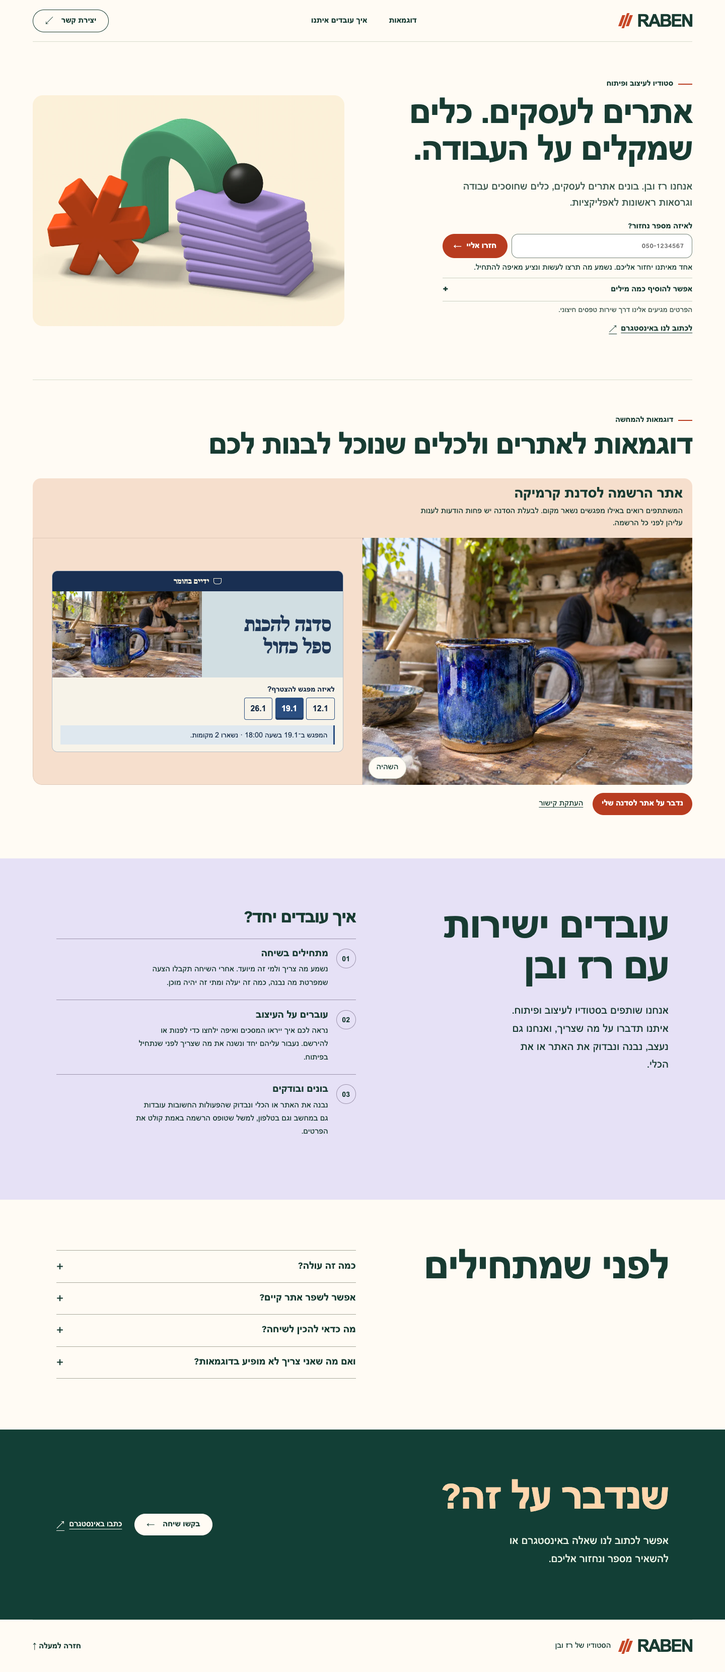
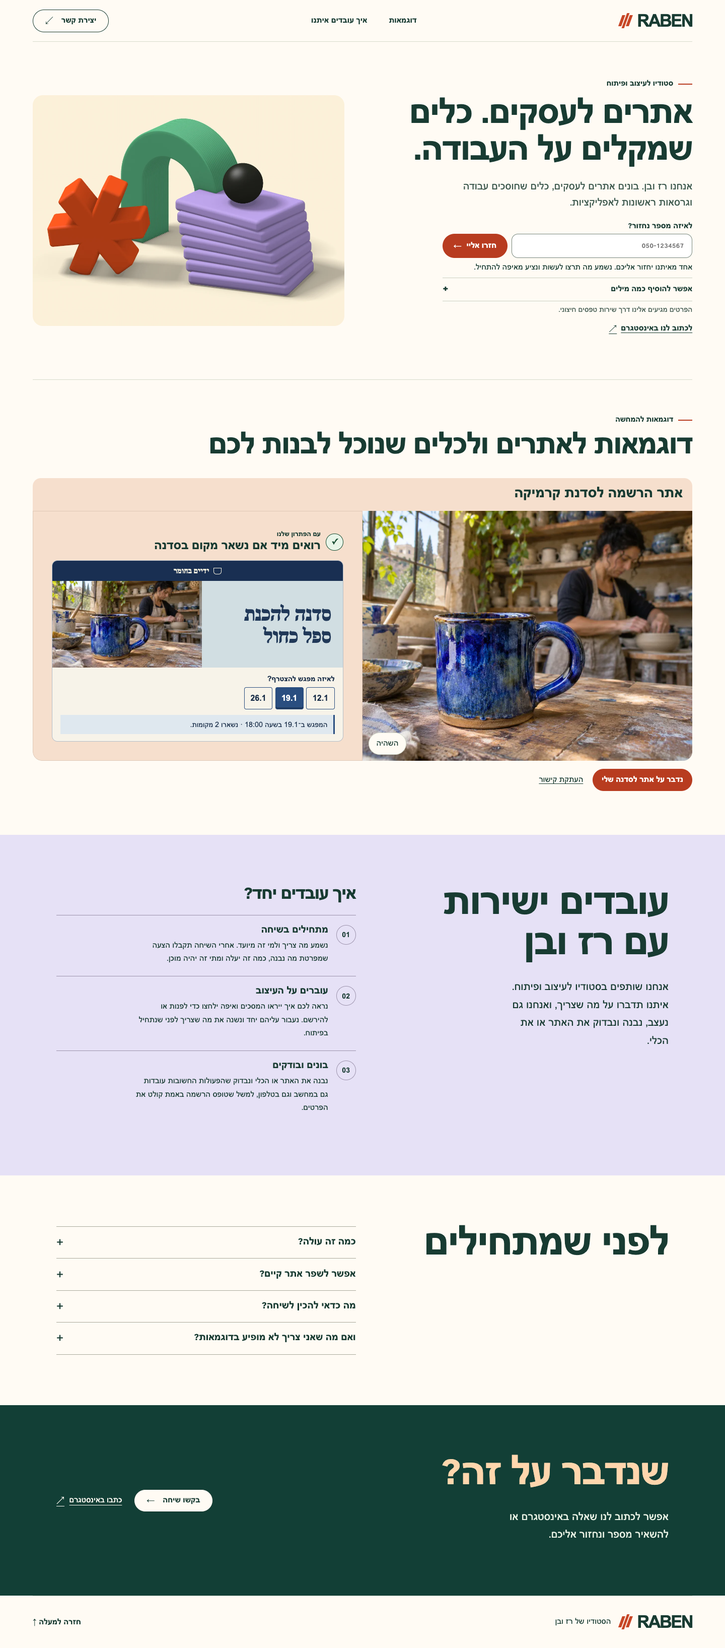
Show each everyday problem before automatically demonstrating its solution

diff --git a/dist/gallery-stories.js b/dist/gallery-stories.js
@@ -252,44 +252,104 @@
     };
   });
 
+  // Source fragments are illustrative and contain no visitor information.
+  function problem(layout, label, issue, outcome, fragments) {
+    const marks = { chat: '…', note: '≡', diary: '◷', inbox: '✉' };
+    return {
+      issue,
+      outcome,
+      renderProblem(container) {
+        const artifact = element('section', 'gp-problem gp-problem-' + layout);
+        artifact.dir = 'rtl';
+        artifact.setAttribute('aria-label', label);
+        const heading = element('h3', 'gp-problem-heading');
+        const mark = element('span', 'gp-problem-mark', marks[layout]);
+        mark.setAttribute('aria-hidden', 'true');
+        heading.append(mark, document.createTextNode(label));
+        const list = element('ul', 'gp-fragments');
+        for (const [source, content] of fragments) {
+          const entry = element('li');
+          entry.append(element('strong', '', source), element('span', '', content));
+          list.append(entry);
+        }
+        artifact.append(heading, list);
+        container.replaceChildren(artifact);
+      }
+    };
+  }
+
   window.RABEN_STORIES = [
     {
       id: 'ceramics', category: 'clients', title: 'אתר הרשמה לסדנת קרמיקה',
+      ...problem('chat', 'הודעות לסטודיו', 'כל הרשמה מתחילה בהתכתבות', 'רואים מיד אם נשאר מקום בסדנה', [
+        ['רוני', 'יש מקום לשניים ב־19.1?'],
+        ['בעלת הסטודיו', 'רגע, אני בודקת במחברת.']
+      ]),
       alt: 'ספל קרמיקה בזיגוג כחול בסטודיו', caption: 'המשתתפים רואים באילו מפגשים נשאר מקום. לבעלת הסדנה יש פחות הודעות לענות עליהן לפני כל הרשמה.',
       cta: 'נדבר על אתר לסדנה שלי', kind: website, interest: 'אתר לסדנה עם בחירת מועד', ...pottery
     },
     {
       id: 'bakery', category: 'clients', title: 'עמוד להזמנת עוגה ממאפייה ביתית',
+      ...problem('note', 'פתק הזמנה על השיש', 'כל עוגה דורשת בירור מחיר', 'הגודל והמחיר ברורים עוד לפני הפנייה', [
+        ['יום הולדת', 'עוגת תותים ל־12 אורחים'],
+        ['נשאר לברר', 'איזה קוטר? וכמה זה יעלה?']
+      ]),
       alt: 'עוגת תותים במאפייה', caption: 'הלקוחות בוחרים לכמה אורחים מיועדת העוגה ורואים מיד את הגודל והמחיר, עוד לפני שפונים לאופה.',
       cta: 'נדבר על אתר למוצרים שלי', kind: website, interest: 'עמוד מוצרים עם בחירת גודל ומחיר', ...cake
     },
     {
       id: 'guitar', category: 'clients', title: 'אתר לקביעת שיעור גיטרה',
+      ...problem('diary', 'היומן של המורה', 'קשה לתאם שיעור לשניים', 'שעות פנויות לשיעור זוגי מופיעות מיד', [
+        ['שני, 16:00', 'שיעור אישי'],
+        ['שיעור ראשון בזוג', 'איזה ערב פנוי לשנינו?']
+      ]),
       alt: 'גיטרה בשיעור נגינה', caption: 'התלמידים בוחרים סוג שיעור ורואים מתי המורה פנוי. כך קל למצוא שעה שמתאימה לשני הצדדים.',
       cta: 'נדבר על אתר לשיעורים שלי', kind: website, interest: 'אתר לשיעורים עם הצגת שעות פנויות', ...lesson
     },
     {
       id: 'technician', category: 'work', title: 'יומן ביקורי בית לטכנאית',
+      ...problem('diary', 'דף הביקורים ברכב', 'הביקור הבא מסתתר בהודעות', 'מסיימים תיקון ורואים מיד לאן להמשיך', [
+        ['09:00 · לוי', 'מכונת הכביסה תוקנה ✓'],
+        ['משפחת כהן', 'השעה בהודעה קולית. איזו משאבה צריך לבדוק?']
+      ]),
       alt: 'טכנאית בודקת מכונת כביסה בביקור בית', caption: 'בסיום תיקון הטכנאית מסמנת שהביקור הושלם. היומן מראה לה לאן להמשיך ובאיזו שעה להגיע.',
       cta: 'נדבר על יומן לעבודה שלי', kind: tool, interest: 'יומן לניהול ביקורים בשטח', ...visits
     },
     {
       id: 'community', category: 'work', title: 'מעקב אחרי פניות למרכז קהילתי',
+      ...problem('inbox', 'פתק לחילופי משמרת', 'לא ברור למי כבר חזרו', 'רק הפניות שמחכות למענה נשארות ברשימה', [
+        ['נועה · ציור', 'מחכה לפרטי הרשמה'],
+        ['יואב · כדורגל', 'דיברנו איתו אתמול?'],
+        ['סיוון · מחול', 'שאלה אם נשאר מקום']
+      ]),
       alt: 'פעילות במרכז קהילתי', caption: 'כשמתחלפת משמרת, הצוות רואה אילו הורים עדיין מחכים לתשובה על חוג ולמי כבר חזרו.',
       cta: 'נדבר על מעקב אחרי פניות', kind: tool, interest: 'מעקב אחרי פניות שממתינות לתשובה', ...inbox
     },
     {
       id: 'volunteer', category: 'work', title: 'לוח משימות לחלוקת סלי מזון',
+      ...problem('chat', 'קבוצת החלוקה', 'ארגזי הירקות מחכים לאיסוף', 'כולם רואים מי אחראי לאיסוף', [
+        ['רכזת החלוקה', 'מי אוסף את הארגזים בחמישי ב־17:00?'],
+        ['יעל', 'אני בחלוקה. מישהו לקח את האיסוף?']
+      ]),
       alt: 'מתנדבים עם ארגזי ירקות לחלוקה', caption: 'הרכזת משבצת מתנדב לאיסוף ארגזים. כולם רואים מי אחראי ומה עוד נשאר לעשות.',
       cta: 'נדבר על שיבוץ בצוות שלי', kind: tool, interest: 'כלי לשיבוץ מתנדבים ומשמרות', ...assign
     },
     {
       id: 'study', category: 'ideas', title: 'אפליקציה למציאת שותף ללימוד',
+      ...problem('note', 'מודעות לשותפים ללימוד', 'המקצוע מתאים אבל השעה לא', 'מוצאים שותף לאנגלית שפנוי בערב', [
+        ['אנגלית', 'אפשר לתרגל איתי בבוקר'],
+        ['פנוי בערב', 'מחפש שותף למתמטיקה']
+      ]),
       alt: 'חוברת תרגול אנגלית במפגש לימוד', caption: 'רוצים לתרגל אנגלית בערב? האפליקציה מציעה מישהו שרוצה ללמוד אותו דבר ופנוי באותן שעות.',
       cta: 'נדבר על הרעיון שלי', kind: product, interest: 'אפליקציה להתאמה בין אנשים', ...match
     },
     {
       id: 'hiking', category: 'ideas', title: 'כלי לבחירת מועד לטיול עם חברים',
+      ...problem('chat', 'קבוצת הטיול', 'קשה לספור מי מגיע באיזה יום', 'רואים מיד אם יש יום מוביל או תיקו', [
+        ['טל', 'לי מתאים שישי'],
+        ['אורי', 'כתבתי חמישי, בעצם שבת'],
+        ['דנה', 'אז כמה אנחנו בכל יום?']
+      ]),
       alt: 'מטיילים נעזרים במפת שבילים', caption: 'כל אחד מצביע ליום שנוח לו. הקבוצה רואה איזה יום מתאים לרוב החברים וחוסכת את ספירת התשובות בצ׳אט.',
       cta: 'נדבר על כלי לקבוצה שלי', kind: product, interest: 'רעיון להצבעות ותיאום בקבוצה', ...poll
     }

diff --git a/dist/gallery.js b/dist/gallery.js
@@ -13,6 +13,10 @@
   const enhanced = find('enhanced');
   const photo = find('photo');
   const demo = find('demo');
+  const problem = find('problem');
+  const phaseLabel = find('phase-label');
+  const issue = find('issue');
+  const outcome = find('outcome');
   const status = find('status');
   const play = find('play');
   const link = find('cta');
@@ -52,24 +56,40 @@
     stories[position].demonstrate?.(demo);
   }
 
+  function setPhase(phase) {
+    if (phase !== 'problem') demonstrate();
+    gallery.dataset.phase = phase;
+    demo.inert = phase === 'problem';
+    if (problem) problem.inert = phase === 'solution';
+    if (phaseLabel) {
+      const labels = { problem: 'הבעיה', solution: 'הפתרון', compare: 'הבעיה והפתרון' };
+      phaseLabel.textContent = labels[phase];
+    }
+  }
+
   function schedule() {
     clearTimeout(slideTimer);
     clearTimeout(actionTimer);
     if (motion.matches && !reducedMotionOverride) {
       paused = true;
       updatePlayControl();
-      if (demo.firstElementChild) demonstrate();
+    }
+    if (!demo.firstElementChild) return;
+    if (paused) {
+      setPhase('compare');
       return;
     }
     const focused = document.activeElement;
-    const reading = keyboardInput && (demo.contains(focused) || focused === link || focused === share);
-    if (paused || !inView || document.hidden || reading) return;
-    if (!demonstrated) actionTimer = setTimeout(demonstrate, 2500);
+    const reading = keyboardInput && (demo.contains(focused) || problem?.contains(focused) || focused === link || focused === share);
+    if (!inView || document.hidden || reading) return;
+    if (gallery.dataset.phase === 'problem') {
+      actionTimer = setTimeout(() => setPhase('solution'), 3000);
+    }
     if (stories.length > 1) {
       slideTimer = setTimeout(() => {
         position = (position + 1) % stories.length;
         render();
-      }, 8000);
+      }, 9000);
     }
   }
 
@@ -83,6 +103,7 @@
   function setPaused(value) {
     paused = value;
     updatePlayControl();
+    if (!paused && gallery.dataset.phase === 'compare') setPhase('solution');
     schedule();
   }
 
@@ -135,7 +156,11 @@
     gallery.dataset.category = story.category;
     gallery.dataset.story = story.id;
     find('title').textContent = story.title;
-    find('caption').textContent = story.caption;
+    const caption = find('caption');
+    if (caption) caption.textContent = story.caption;
+    if (issue) issue.textContent = story.issue;
+    if (outcome) outcome.textContent = story.outcome;
+    if (problem) story.renderProblem(problem);
     link.textContent = story.cta;
     link.href = '#contact';
     if (share) {
@@ -154,7 +179,7 @@
       schedule();
     });
     demonstrated = Number.isInteger(state.choice);
-    fadeIn(demo);
+    setPhase(paused ? 'compare' : 'problem');
     stagePhotos();
     schedule();
   }

diff --git a/dist/index.html b/dist/index.html
@@ -97,14 +97,23 @@
       <article aria-labelledby="current-story-title">
         <header class="story-intro">
           <h3 data-gallery-title id="current-story-title"></h3>
-          <p data-gallery-caption></p>
+          <p class="journey-sr" data-gallery-caption></p>
         </header>
         <div class="gallery-pair">
           <div class="gallery-picture">
             <img data-gallery-photo width="1100" height="820" decoding="async" alt="">
             <button class="gallery-play" data-gallery-play type="button" aria-label="השהיית התצוגה האוטומטית">השהיה</button>
           </div>
-          <div class="gallery-stage"><div data-gallery-demo></div></div>
+          <div class="gallery-stage phase-stage">
+            <div class="phase-frame phase-before">
+              <div class="phase-heading"><span class="phase-symbol" aria-hidden="true">?</span><div><small>לפני</small><h4 data-gallery-issue></h4></div></div>
+              <div data-gallery-problem></div>
+            </div>
+            <div class="phase-frame phase-after">
+              <div class="phase-heading"><span class="phase-symbol" aria-hidden="true">✓</span><div><small>עם הפתרון שלנו</small><h4 data-gallery-outcome></h4></div></div>
+              <div data-gallery-demo></div>
+            </div>
+          </div>
         </div>
           <div class="gallery-links">
             <a class="gallery-cta" data-gallery-cta href="#contact">נדבר על דוגמה כזאת</a>
@@ -116,11 +125,13 @@
     <div data-gallery-static>
       <header class="story-intro">
         <h3>אתר הרשמה לסדנת קרמיקה</h3>
-        <p>המשתתפים רואים באילו מפגשים נשאר מקום. לבעלת הסדנה יש פחות הודעות לענות עליהן לפני כל הרשמה.</p>
+
       </header>
       <div class="gallery-pair">
         <div class="gallery-picture"><img loading="lazy" src="assets/gallery/ceramics-small.webp" width="460" height="345" alt="ספל עם זיגוג כחול על שולחן העבודה בסדנת קרמיקה"></div>
-        <div class="gallery-stage"><div class="static-workshop">
+        <div class="gallery-stage static-comparison">
+          <div class="static-workshop"><strong>לפני</strong><p>״יש מקום למפגש הקרוב?״</p><p>״אילו תאריכים פנויים?״</p></div>
+          <div class="static-workshop"><strong>עם אתר ההרשמה</strong>
           <p>ידיים בחומר</p><h3>סדנה להכנת ספל כחול</h3>
           <fieldset class="static-dates"><legend>בחרו מועד לדוגמה</legend>
             <label><input type="radio" name="sample-date" checked>12 בינואר <span>המפגש ב־18:00. נשארו 4 מקומות.</span></label>

diff --git a/tests/gallery.browser.js b/tests/gallery.browser.js
@@ -35,23 +35,29 @@ async previewTab => {
     for (const id of stories) {
       assert(await gallery.getAttribute('data-story') === id, 'Automatic story order: ' + id);
       await control('photo').evaluate(img => img.decode());
-      const before = await control('demo').innerText();
-      await page.clock.runFor(3000);
-      assert(await control('demo').innerText() !== before, 'No automatic result: ' + id);
-      await page.clock.runFor(5000);
+      assert(await gallery.getAttribute('data-phase') === 'problem', 'Missing initial problem: ' + id);
+      assert(await control('problem').isVisible() && !await control('demo').isVisible(), 'Problem frame not isolated: ' + id);
+      assert((await control('problem').innerText()).trim().length > 0, 'Problem is empty: ' + id);
+      const before = await control('demo').textContent();
+      await page.clock.runFor(3200);
+      assert(await gallery.getAttribute('data-phase') === 'solution', 'Solution not revealed: ' + id);
+      assert(await control('demo').isVisible() && !await control('problem').isVisible(), 'Solution frame not isolated: ' + id);
+      assert(await control('demo').textContent() !== before, 'No automatic result: ' + id);
+      await page.clock.runFor(5800);
     }
     assert(await gallery.getAttribute('data-story') === stories[0], 'Automatic loop did not wrap');
     await control('play').click();
     await page.clock.runFor(16000);
     assert(await gallery.getAttribute('data-story') === stories[0], 'Explicit pause ignored');
     await control('play').click();
-    await page.clock.runFor(8100);
+    await page.clock.runFor(9100);
     assert(await gallery.getAttribute('data-story') === stories[1], 'Explicit resume failed');
     await page.emulateMedia({reducedMotion:'reduce'});
     await page.clock.runFor(32);
     await page.waitForFunction(() => document.querySelector('[data-gallery-play]').textContent === 'המשך ניגון');
-    await page.clock.runFor(16000);
+    await page.clock.runFor(20000);
     assert(await gallery.getAttribute('data-story') === stories[1], 'Reduced motion ignored');
+    assert(await control('problem').isVisible() && await control('demo').isVisible(), 'Static comparison missing');
     await page.goto(base + '#story-hiking');
     assert(await gallery.getAttribute('data-story') === 'hiking', 'Shared story did not open');
     await page.locator('#brief-extras summary').click();

diff --git a/dist/gallery-previews.css b/dist/gallery-previews.css
@@ -213,3 +213,73 @@
 }
 .gp-guitar .gp-title { max-width: 10ch; text-shadow: 0 1px 4px #17120d; }
 .gp-guitar .gp-photo { object-position: 50% 55%; }
+
+/* The "before" view shows the scraps a person would have to reconcile. */
+.gp-problem {
+  --scrap-ink: #3e3732;
+  --scrap-edge: #d2c7bc;
+  width: 100%;
+  min-width: 0;
+  padding: clamp(.7rem, 2vw, 1.1rem);
+  color: var(--scrap-ink);
+  background: #f7f2eb;
+  border: 1px solid var(--scrap-edge);
+  border-radius: .7rem;
+  text-align: start;
+  line-height: 1.32;
+}
+.gp-problem .gp-problem-heading {
+  display: flex;
+  align-items: center;
+  gap: .55rem;
+  margin: 0 0 .65rem;
+  color: inherit;
+  font: 700 1.04rem/1.25 Arial, sans-serif;
+}
+.gp-problem-mark {
+  display: grid;
+  place-items: center;
+  min-width: 1.65rem;
+  height: 1.65rem;
+  border: 1px solid currentColor;
+  border-radius: .45rem;
+}
+.gp-fragments { display: grid; gap: .36rem; margin: 0; padding: 0; list-style: none; }
+.gp-fragments li { display: grid; gap: .08rem; min-width: 0; }
+.gp-fragments strong { font-size: .78rem; }
+.gp-fragments span { font-size: .94rem; }
+.gp-problem-chat { background: #e8ece4; }
+.gp-problem-chat li {
+  width: fit-content;
+  max-width: 88%;
+  padding: .32rem .6rem;
+  border: 1px solid #c9d2c8;
+  border-radius: .65rem .1rem .65rem .65rem;
+  background: white;
+}
+.gp-problem-chat li:nth-child(2) {
+  justify-self: end;
+  background: #f5f0d7;
+  border-radius: .1rem .65rem .65rem .65rem;
+}
+.gp-problem-note {
+  background: #fff7d8;
+  border-radius: 0 .4rem .4rem 0;
+  box-shadow: -.2rem .22rem 0 #ded0b0;
+}
+.gp-problem-note li { padding: .25rem .2rem; border-bottom: 1px dashed #bcab8c; }
+.gp-problem-note strong { color: #684c27; }
+.gp-problem-diary { background: #fffaf2; border-inline-start: .38rem solid #86584a; }
+.gp-problem-diary li {
+  grid-template-columns: minmax(5.2rem, .8fr) minmax(0, 1.3fr);
+  align-items: baseline;
+  padding: .48rem .2rem;
+  border-top: 1px solid var(--scrap-edge);
+}
+.gp-problem-diary strong { padding-inline-end: .45rem; }
+.gp-problem-inbox { background: #f5f3e9; }
+.gp-problem-inbox li {
+  padding: .3rem .55rem;
+  border-inline-start: 3px solid #81796a;
+  background: #fffdf7;
+}

diff --git a/dist/gallery.css b/dist/gallery.css
@@ -69,3 +69,20 @@
 .static-dates label { display: block; padding: .4rem; }
 .static-dates label span { display: none; margin-block-start: .4rem; }
 .static-dates input:checked ~ span { display: block; }
+
+.phase-stage { align-items: center; }
+.phase-frame { grid-area: 1 / 1; min-width: 0; }
+.phase-heading { display: flex; align-items: center; gap: .65rem; margin-block-end: .8rem; }
+.phase-heading small { font-weight: 700; }
+.phase-heading h4 { margin: .12rem 0 0; font-size: clamp(1.1rem, 2vw, 1.55rem); line-height: 1.15; }
+.phase-symbol { display: grid; place-items: center; width: 2.15rem; aspect-ratio: 1; flex: none; border: 1px solid; font-weight: 700; }
+.phase-before .phase-symbol { color: #78391e; background: #fff6e7; border-radius: .4rem; }
+.phase-after .phase-symbol { color: #174c32; background: #e8f5e8; border-radius: 50%; }
+#story-gallery[data-phase="problem"] .phase-after,
+#story-gallery[data-phase="solution"] .phase-before { visibility: hidden; pointer-events: none; }
+#story-gallery[data-phase="compare"] .phase-frame { grid-area: auto; }
+#story-gallery[data-phase="compare"] .phase-stage, .static-comparison { gap: 1.25rem; }
+@media (prefers-reduced-motion: no-preference) {
+  #story-gallery[data-phase="solution"] .phase-after { animation: reveal-solution .24s ease-out; }
+  @keyframes reveal-solution { from { opacity: .4; transform: translateY(5px); } to { opacity: 1; transform: translateY(0); } }
+}

diff --git a/README.md b/README.md
@@ -1,10 +1,10 @@
 # RABEN · הסטודיו של רז ובן
 
-אתר בעברית לעיצוב ופיתוח אתרים, כלים לעבודה ומוצרים דיגיטליים. במסך הפתיחה מופיע טופס לבקשת שיחה עם רז ובן. אפשר גם לפנות אליהם בהודעה באינסטגרם. גלריית „דוגמאות לאתרים ולכלים שנוכל לבנות לכם” מציגה שמונה דוגמאות להמחשה. לפני כל צילום מופיעים שם הפתרון והסבר קצר על מה שהוא מאפשר לעשות. ליד הצילום רואים את המסך בפעולה. העמוד כתוב ב־HTML, CSS ו־JavaScript ופועל ללא שלב בנייה.
+אתר בעברית לעיצוב ופיתוח אתרים, כלים לעבודה ומוצרים דיגיטליים. במסך הפתיחה מופיע טופס לבקשת שיחה עם רז ובן. אפשר גם לפנות אליהם בהודעה באינסטגרם. גלריית „דוגמאות לאתרים ולכלים שנוכל לבנות לכם” מציגה שמונה דוגמאות להמחשה. לצד הצילום מופיעה הבעיה של בעל העסק, למשל שתי הודעות שמבקשות את אותו מועד. אחר כך מופיע הכלי בפעולה עם התוצאה. העמוד כתוב ב־HTML, CSS ו־JavaScript ופועל ללא שלב בנייה.
 
 ![מסך הבית במחשב](docs/screenshots/desktop.png)
 
-[תצוגת נייד](docs/screenshots/mobile.png) · [העמוד המלא](docs/screenshots/desktop-full.png) · [הגלריה במחשב](docs/screenshots/examples.png) · [הגלריה בנייד](docs/screenshots/gallery-mobile.png) · [טופס הפנייה](docs/screenshots/contact.png)
+[תצוגת נייד](docs/screenshots/mobile.png) · [העמוד המלא](docs/screenshots/desktop-full.png) · [הבעיה לדוגמה](docs/screenshots/gallery-before.png) · [הפתרון בפעולה](docs/screenshots/examples.png) · [הגלריה בנייד](docs/screenshots/gallery-mobile.png) · [טופס הפנייה](docs/screenshots/contact.png)
 
 ## הרצה
 
@@ -33,7 +33,7 @@ python3 -m http.server 4173 --bind 127.0.0.1 --directory dist
 
 הדוגמאות מכסות הרשמה לסדנה, הזמנת עוגה, קביעת שיעור גיטרה, ניהול ביקורים ופניות, שיבוץ מתנדבים, התאמה ללימוד משותף והצבעה על מועד לטיול. ההדמיות משתמשות בפרטים לדוגמה. פעולות בתוכן אינן שולחות הזמנה או הרשמה.
 
-הגלריה מנוגנת מעצמה כשהיא גלויה. בכל סיפור רואים פעולה ותוצאה, ואחרי שמונה שניות עוברים לסיפור הבא. אפשר להשהות או להעתיק קישור ישיר, למשל [דוגמת הסדנה](http://localhost:4173/#story-ceramics). אפשר גם לנסות את המסך בעצמכם. בהעדפת הפחתת תנועה מוצגת תוצאה קבועה, עם אפשרות להפעיל את הניגון. ללא JavaScript מופיעות דוגמת הקרמיקה ורשימת רעיונות עם קישורי פנייה.
+הגלריה מנוגנת מעצמה כשהיא גלויה. בכל סיפור רואים קודם את המצב לפני השינוי. כעבור שלוש שניות מופיע הפתרון עם תוצאה לדוגמה. כעבור שש שניות נוספות מתחיל הסיפור הבא. אפשר להשהות או להעתיק קישור ישיר, למשל [דוגמת הסדנה](http://localhost:4173/#story-ceramics). אפשר גם לנסות את המסך בעצמכם. בהעדפת הפחתת תנועה מוצגים הבעיה והפתרון יחד, עם אפשרות להפעיל את הניגון. ללא JavaScript מופיעות דוגמת הקרמיקה ורשימת רעיונות עם קישורי פנייה.
 
 צילומי ההמחשה נוצרו ב־ImageGen. תיאורי הסצנות היו ספל כחול בסדנת קרמיקה, עוגת תותים במאפייה, שיעור גיטרה, טכנאית ליד מכונת כביסה, מדריכה שמסדרת כיתה, אריזת ירקות לחלוקה, מפגש ללימוד אנגלית וחברים שבודקים מפת שבילים. בכל זוג נעשה שימוש באותו עולם חזותי. התמונות מוגשות מהאתר בשני גדלים, ללא תלות בשירות תמונות חיצוני.
 

diff --git a/docs/DESIGN-VERIFICATION.md b/docs/DESIGN-VERIFICATION.md
@@ -2,8 +2,8 @@
 
 הבדיקות בוצעו ב־Google Chrome מול האתר המקומי. צילומי המסך במאגר משקפים את הגרסה הזו.
 
-- בשמונה דוגמאות נבדקו טעינת הצילום, הפעלת המסך, שינוי התוצאה ושמירת המיקוד. נבדקו הצגת הפעולה והתוצאה ללא לחיצה, מעבר מהסיפור האחרון לראשון וקישורים ישירים לדוגמאות.
-- נבדקו מעבר אוטומטי אחרי שמונה שניות, עצירה מחוץ למסך ובלשונית מוסתרת, הפעלה מחדש, הפחתת תנועה ושחזור בחירה ברענון.
+- בשמונה דוגמאות נבדקו טעינת הצילום, הפעלת המסך, שינוי התוצאה ושמירת המיקוד. נבדקו הצגת הבעיה, הפעולה והתוצאה ללא לחיצה, מעבר מהסיפור האחרון לראשון וקישורים ישירים לדוגמאות.
+- נבדקו מעבר אוטומטי מהבעיה לפתרון אחרי שלוש שניות ולדוגמה הבאה אחרי תשע שניות, עצירה מחוץ למסך ובלשונית מוסתרת, הפעלה מחדש, הפחתת תנועה ושחזור בחירה ברענון.
 - נבדקו עריכת הקשר הדוגמה, הסרתו ושמירת ההודעה האישית. ניסיון שנכשל וניסיון חוזר מוצלח נבדקו באמצעות תשובות מדומות, כולל הפרטים שהועברו לטופס ולנוסח האינסטגרם.
 - בבדיקה עם צילום מעוכב היה אפשר לבחור תאריך ולקבל סיכום לפני שהצילום הגיע. גם כשבקשות הצילום נכשלו, המסך וקישור הפנייה פעלו.
 - ב־390 וב־1440 פיקסלים נמדד אותו גובה של צמד הצילום והמסך בכל שמונה הדוגמאות. בבדיקת axe-core של שמונת מצבי הגלריה לא נמצאו הפרות בכללי WCAG A/AA שנבדקו.
